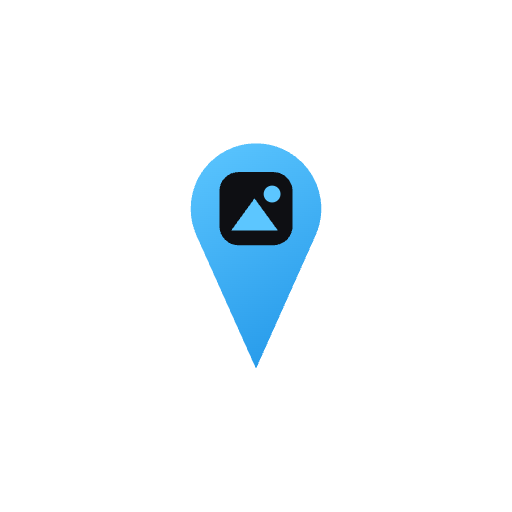
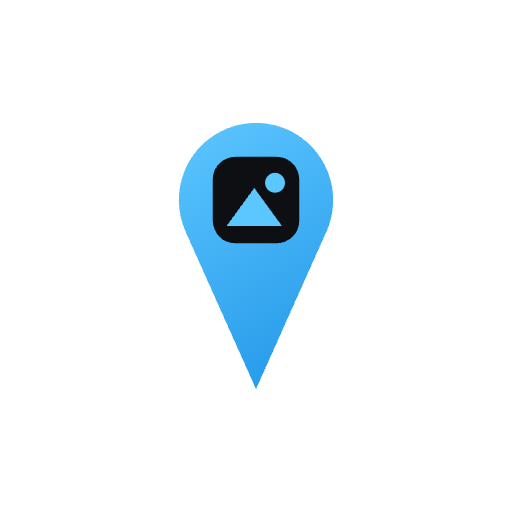
fix: 적응형 아이콘 전경을 키웠다 (0.44 → 0.52)
에뮬레이터에 깔아 보니 꼭지점은 안 잘렸는데 원 안에서 작아 보였다 —
Gmail·Chrome 은 원의 75~80%를 채우는데 우리는 ~66%였다.
0.52×512 = 266px, 보장 영역(원 지름 341px)의 78%. 커졌는데도 안 잘린다.

★ 런처가 그린 연한 파란 테는 우리 것이 아니다("방금 깔린 앱" 표시).
  우리 배경층은 단색이고 그 테는 원 바깥에 있다 — 기하로 확인했다.

Changed region(s): [[0.3438, 0.2188, 0.6562, 0.75]]

diff --git a/rn-bench/tools/icon_gen.html b/rn-bench/tools/icon_gen.html
@@ -67,8 +67,8 @@ function make(kind, s) {
   if (kind === "bg")       { x.fillStyle = BG; x.fillRect(0,0,s,s); }
   /* ★ 적응형 아이콘은 **가운데 66%만 보인다**(기기마다 다른 모양으로 깎는다).
      그래서 전경은 더 작게 그린다 — 안 그러면 꼭지점이 잘린다. */
-  if (kind === "fg")       { mark(x, s, 0.44, {}); }
-  if (kind === "mono")     { mark(x, s, 0.48, { solid: "#fff" }); }
+  if (kind === "fg")       { mark(x, s, 0.52, {})  /* ★ 0.44 였는데 **원 안에서 작아 보였다**(§13.148): 0.52×512=266px, 보장 영역(원 지름 341px)의 78% — Gmail·Chrome 과 비슷한 무게. 341 보다 작으므로 어떤 마스크에도 안 잘린다 */; }
+  if (kind === "mono")     { mark(x, s, 0.52, { solid: "#fff" }); }
   if (kind === "splash")   { mark(x, s, 0.76, {}); }
   c.style.width = "120px"; c.style.imageRendering = "auto";
   c.title = kind; document.body.appendChild(c);

diff --git a/PLAN.md b/PLAN.md
@@ -15699,6 +15699,22 @@ ios/app/Images.xcassets/AppIcon.appiconset/App-Icon-1024x1024@1x.png
 ★ **추측으로 넘기지 않고 생성물을 봤다.** §13.140 에서 `UIUserInterfaceStyle` 이
   적어 둔 것과 다르게 나온 것을 겪은 뒤로는 그렇게 한다.
 
+### ★ 에뮬레이터 홈 화면에서 **한 번 더 고쳤다**
+
+적응형 아이콘은 1024 원본만 봐서는 모른다 — 런처가 **마스크로 깎는다.**
+실제로 깔아 보니:
+
+- **꼭지점은 안 잘렸다** (안전영역 계산은 맞았다)
+- 그런데 **원 안에서 작아 보였다.** Gmail·Chrome 은 원의 75~80%를 채우는데
+  우리는 ~66%였다
+
+전경을 `0.44 → 0.52` 로 키웠다. `0.52×512 = 266px`, 보장 영역(원 지름 341px)의
+**78%** — 커졌는데도 **어떤 마스크에도 안 잘린다**(266 < 341).
+
+★ 런처가 아이콘 둘레에 그린 **연한 파란 테**는 우리 것이 아니다 —
+  *"방금 깔린 앱"* 표시다. 우리 배경층은 단색 `#0E0F13` 이고 그 테는
+  **원 바깥**에 있다. 추측이 아니라 기하로 확인했다.
+
 ### 안 고친 것
 
 `assets/favicon.png` 는 아직 Expo 기본이다 — **웹을 안 쓴다.** 쓰게 되면 그때.
